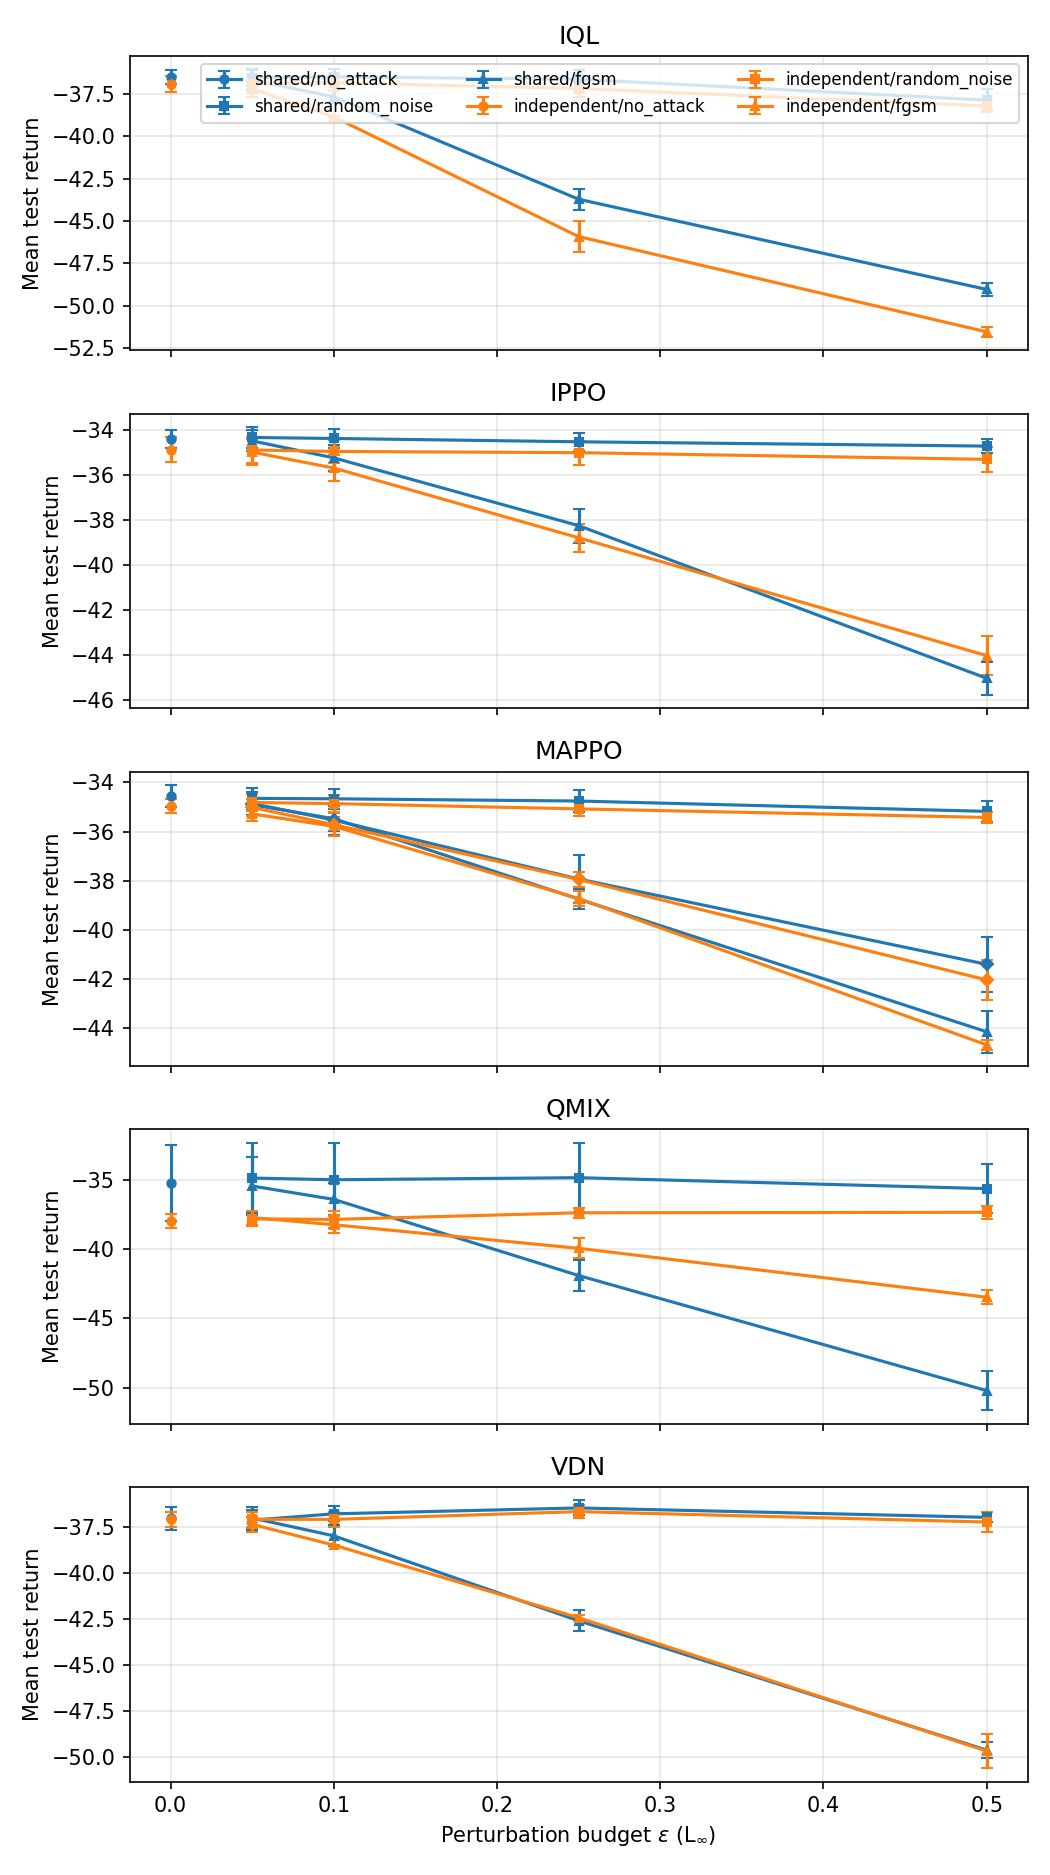
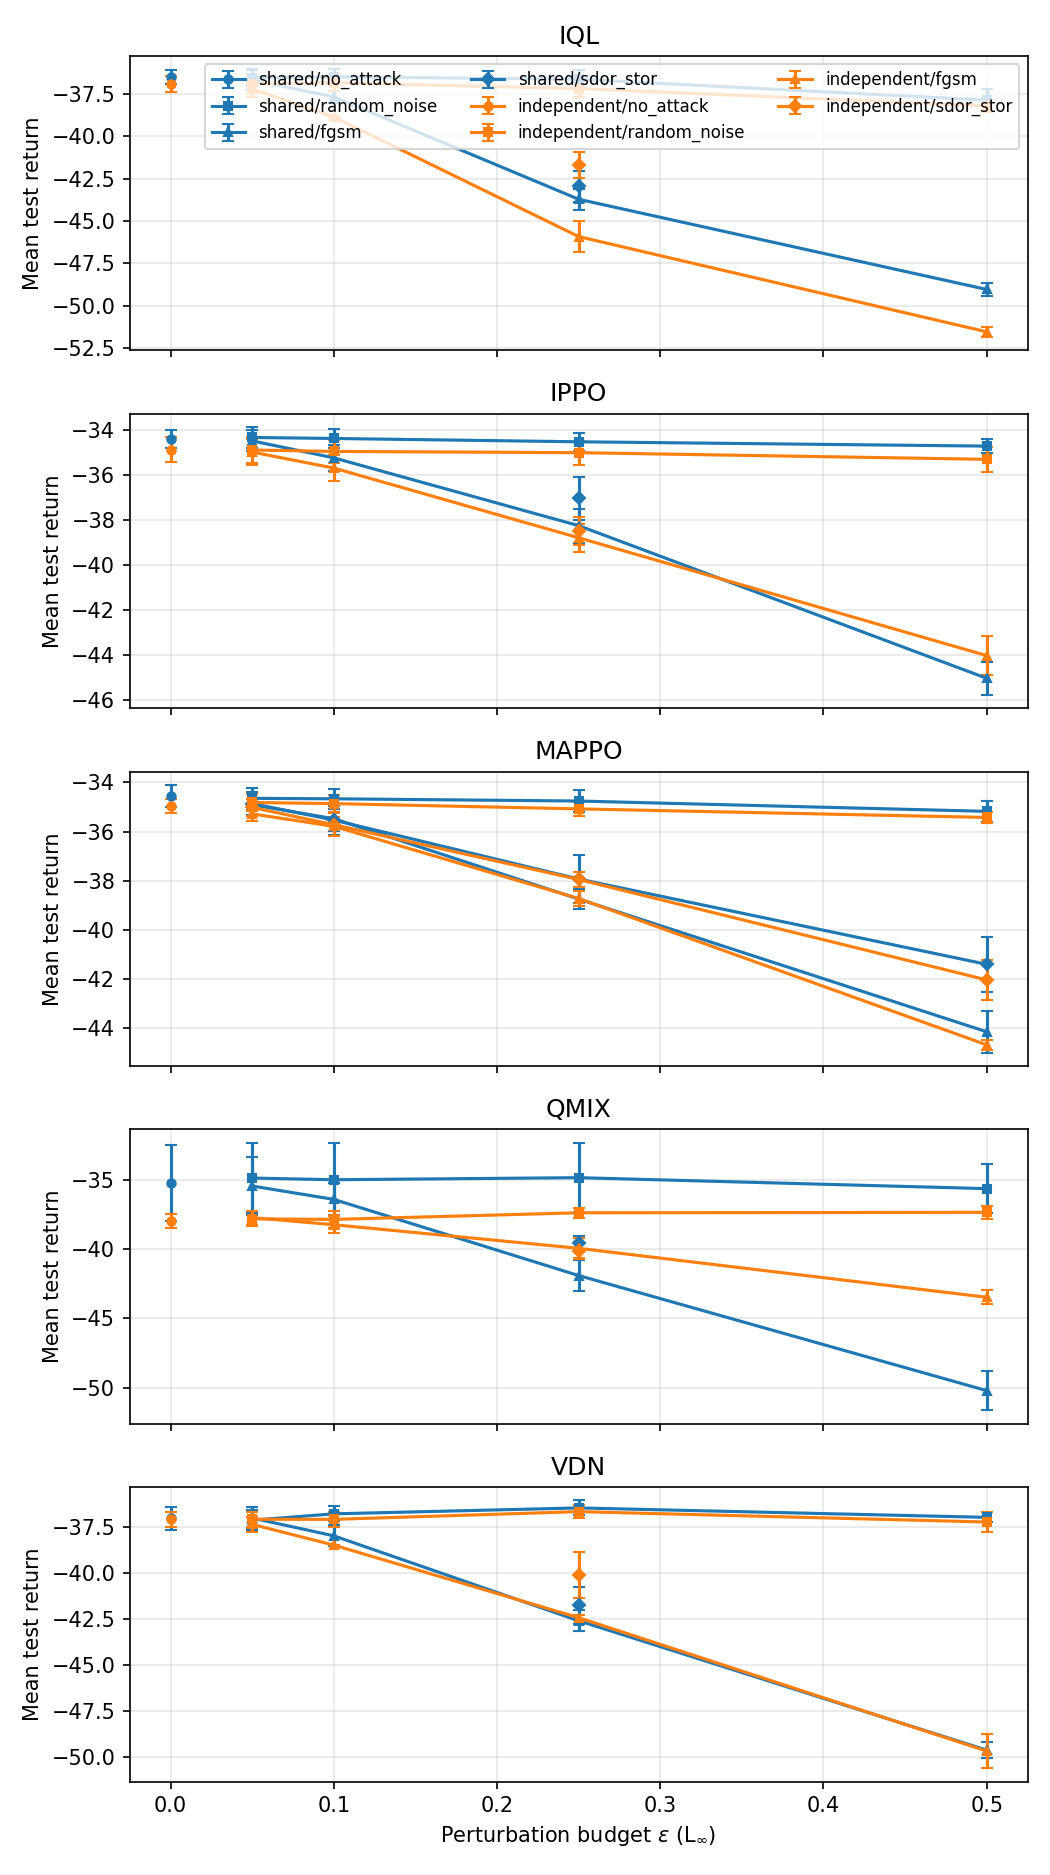
fill sdor-stor column for simple_reference (option B from mappo seeds)

diff --git a/figures/mpe_simple_reference_results_table.tex b/figures/mpe_simple_reference_results_table.tex
@@ -2,19 +2,19 @@
 \toprule
 Algorithm & Params & Clean & Random ($\epsilon=0.25$) & FGSM ($\epsilon=0.25$) & SDOR-stor ($\epsilon=0.25$) \\
 \midrule
-IQL & shared & $-36.5\pm0.4$ & $-36.6\pm0.5$ & $-43.7\pm0.6$ & -- \\
-IQL & independent & $-36.9\pm0.5$ & $-37.2\pm0.5$ & $-45.9\pm0.9$ & -- \\
+IQL & shared & $-36.5\pm0.4$ & $-36.6\pm0.5$ & $-43.7\pm0.6$ & $-42.9\pm0.9$ \\
+IQL & independent & $-36.9\pm0.5$ & $-37.2\pm0.5$ & $-45.9\pm0.9$ & $-41.7\pm0.8$ \\
 \midrule
-IPPO & shared & $-34.4\pm0.4$ & $-34.5\pm0.4$ & $-38.2\pm0.8$ & -- \\
-IPPO & independent & $-34.9\pm0.6$ & $-35.0\pm0.5$ & $-38.8\pm0.6$ & -- \\
+IPPO & shared & $-34.4\pm0.4$ & $-34.5\pm0.4$ & $-38.2\pm0.8$ & $-37.0\pm0.9$ \\
+IPPO & independent & $-34.9\pm0.6$ & $-35.0\pm0.5$ & $-38.8\pm0.6$ & $-38.5\pm0.6$ \\
 \midrule
 MAPPO & shared & $-34.6\pm0.4$ & $-34.8\pm0.4$ & $-38.7\pm0.4$ & $-37.9\pm1.0$ \\
 MAPPO & independent & $-35.0\pm0.3$ & $-35.1\pm0.3$ & $-38.7\pm0.3$ & $-38.0\pm0.3$ \\
 \midrule
-QMIX & shared & $-35.2\pm2.8$ & $-34.9\pm2.5$ & $-41.9\pm1.2$ & -- \\
-QMIX & independent & $-38.0\pm0.5$ & $-37.4\pm0.4$ & $-40.0\pm0.7$ & -- \\
+QMIX & shared & $-35.2\pm2.8$ & $-34.9\pm2.5$ & $-41.9\pm1.2$ & $-39.6\pm0.5$ \\
+QMIX & independent & $-38.0\pm0.5$ & $-37.4\pm0.4$ & $-40.0\pm0.7$ & $-40.1\pm0.6$ \\
 \midrule
-VDN & shared & $-37.1\pm0.6$ & $-36.5\pm0.4$ & $-42.6\pm0.6$ & -- \\
-VDN & independent & $-37.1\pm0.4$ & $-36.7\pm0.4$ & $-42.4\pm0.2$ & -- \\
+VDN & shared & $-37.1\pm0.6$ & $-36.5\pm0.4$ & $-42.6\pm0.6$ & $-41.8\pm1.0$ \\
+VDN & independent & $-37.1\pm0.4$ & $-36.7\pm0.4$ & $-42.4\pm0.2$ & $-40.1\pm1.2$ \\
 \bottomrule
 \end{tabular}